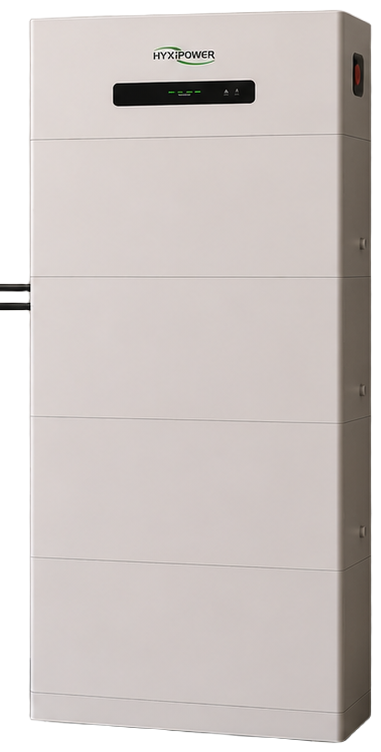
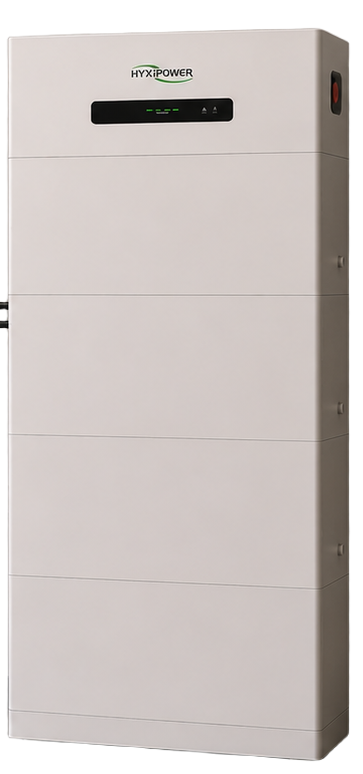
Improve visual appearance and layout of key pages
Update battery image cropping, adjust component layouts, and refine visual elements across HomePage, AanbodPage, OverOnsPage, and WaaromSolarFastPage.

Replit-Commit-Author: Agent
Replit-Commit-Session-Id: 162b359c-b21b-409e-af4e-9883205b7a35
Replit-Commit-Checkpoint-Type: full_checkpoint
Replit-Commit-Event-Id: c0a02d73-2659-4c11-98e0-e0179d22f946
Replit-Commit-Screenshot-Url: https://storage.googleapis.com/screenshot-production-us-central1/2403479a-2bf0-43aa-9f46-4086eb22509c/162b359c-b21b-409e-af4e-9883205b7a35/OcVRzWx
Replit-Helium-Checkpoint-Created: true

diff --git a/VOLTRAX/frontend/src/pages/WaaromSolarFastPage.jsx b/VOLTRAX/frontend/src/pages/WaaromSolarFastPage.jsx
@@ -203,34 +203,50 @@ export default function WaaromSolarFastPage() {
           <div className="absolute bottom-0 left-0 w-96 h-96 rounded-full bg-[#22a55d]/4" />
         </div>
         <div className="max-w-6xl mx-auto px-6 pt-14 pb-0 relative">
-          <div className="max-w-3xl pb-16">
-            <motion.div initial={{ opacity: 0, y: 16 }} animate={{ opacity: 1, y: 0 }} transition={{ duration: 0.5 }}
-              className="inline-flex items-center gap-2 bg-[#22a55d]/15 text-[#22a55d] text-xs font-semibold px-4 py-2 rounded-full mb-8">
-              <Battery className="w-3.5 h-3.5" />
-              {nl ? 'HYXiPower partner Nederland' : 'HYXiPower partner Netherlands'}
-            </motion.div>
-            <motion.h1 initial={{ opacity: 0, y: 24 }} animate={{ opacity: 1, y: 0 }} transition={{ duration: 0.7, delay: 0.08 }}
-              className="text-5xl lg:text-6xl font-extrabold leading-[1.06] tracking-tight mb-6 text-[#131A20]">
-              {nl
-                ? <> Waarom kiezen voor <span className="text-[#22a55d]">SolarFast</span>? </>
-                : <> Why choose <span className="text-[#22a55d]">SolarFast</span>? </>}
-            </motion.h1>
-            <motion.p initial={{ opacity: 0, y: 16 }} animate={{ opacity: 1, y: 0 }} transition={{ duration: 0.65, delay: 0.16 }}
-              className="text-lg text-[#131A20]/60 leading-relaxed mb-10 max-w-2xl">
-              {nl
-                ? 'SolarFast helpt u een duurzamere woning te realiseren. Als HYXiPower partner begeleiden wij u van energieadvies tot installatie, financiering en jarenlange service. Goed voor uw portemonnee en goed voor het milieu.'
-                : 'SolarFast helps you create a more sustainable home. As a HYXiPower partner we guide you from energy advice to installation, financing and years of service. Good for your wallet and for the environment.'}
-            </motion.p>
-            <motion.div initial={{ opacity: 0, y: 12 }} animate={{ opacity: 1, y: 0 }} transition={{ duration: 0.65, delay: 0.24 }}
-              className="flex flex-wrap gap-3">
-              <button onClick={() => navigate('/calculator')}
-                className="flex items-center gap-2 bg-[#22a55d] hover:bg-[#1a9050] text-white font-semibold px-7 py-3.5 rounded-full transition-all hover:shadow-xl hover:shadow-green-500/25 text-sm">
-                {nl ? 'Bereken mijn besparing' : 'Calculate my savings'} <ArrowRight className="w-4 h-4" />
-              </button>
-              <a href="mailto:info@solarfast.nl?subject=Advies"
-                className="flex items-center gap-2 border border-[#22a55d]/30 text-[#131A20]/70 hover:border-[#22a55d] hover:text-[#22a55d] font-medium px-7 py-3.5 rounded-full transition-all text-sm bg-white">
-                {nl ? 'Stel een vraag' : 'Ask a question'}
-              </a>
+          <div className="grid lg:grid-cols-2 gap-14 items-start pb-16">
+            <div>
+              <motion.div initial={{ opacity: 0, y: 16 }} animate={{ opacity: 1, y: 0 }} transition={{ duration: 0.5 }}
+                className="inline-flex items-center gap-2 bg-[#22a55d]/15 text-[#22a55d] text-xs font-semibold px-4 py-2 rounded-full mb-8">
+                <Battery className="w-3.5 h-3.5" />
+                {nl ? 'HYXiPower partner Nederland' : 'HYXiPower partner Netherlands'}
+              </motion.div>
+              <motion.h1 initial={{ opacity: 0, y: 24 }} animate={{ opacity: 1, y: 0 }} transition={{ duration: 0.7, delay: 0.08 }}
+                className="text-5xl lg:text-6xl font-extrabold leading-[1.06] tracking-tight mb-6 text-[#131A20]">
+                {nl
+                  ? <> Waarom kiezen voor <span className="text-[#22a55d]">SolarFast</span>? </>
+                  : <> Why choose <span className="text-[#22a55d]">SolarFast</span>? </>}
+              </motion.h1>
+              <motion.p initial={{ opacity: 0, y: 16 }} animate={{ opacity: 1, y: 0 }} transition={{ duration: 0.65, delay: 0.16 }}
+                className="text-lg text-[#131A20]/60 leading-relaxed mb-10 max-w-xl">
+                {nl
+                  ? 'SolarFast helpt u een duurzamere woning te realiseren. Als HYXiPower partner begeleiden wij u van energieadvies tot installatie, financiering en jarenlange service. Goed voor uw portemonnee en goed voor het milieu.'
+                  : 'SolarFast helps you create a more sustainable home. As a HYXiPower partner we guide you from energy advice to installation, financing and years of service. Good for your wallet and for the environment.'}
+              </motion.p>
+              <motion.div initial={{ opacity: 0, y: 12 }} animate={{ opacity: 1, y: 0 }} transition={{ duration: 0.65, delay: 0.24 }}
+                className="flex flex-wrap gap-3">
+                <button onClick={() => navigate('/calculator')}
+                  className="flex items-center gap-2 bg-[#22a55d] hover:bg-[#1a9050] text-white font-semibold px-7 py-3.5 rounded-full transition-all hover:shadow-xl hover:shadow-green-500/25 text-sm">
+                  {nl ? 'Bereken mijn besparing' : 'Calculate my savings'} <ArrowRight className="w-4 h-4" />
+                </button>
+                <a href="mailto:info@solarfast.nl?subject=Advies"
+                  className="flex items-center gap-2 border border-[#22a55d]/30 text-[#131A20]/70 hover:border-[#22a55d] hover:text-[#22a55d] font-medium px-7 py-3.5 rounded-full transition-all text-sm bg-white">
+                  {nl ? 'Stel een vraag' : 'Ask a question'}
+                </a>
+              </motion.div>
+            </div>
+            <motion.div
+              initial={{ opacity: 0, scale: 0.95, x: 20 }} animate={{ opacity: 1, scale: 1, x: 0 }}
+              transition={{ duration: 0.85, delay: 0.12, ease: [0.22, 1, 0.36, 1] }}
+              className="relative flex items-center justify-center py-4"
+            >
+              <div className="absolute w-[65%] aspect-square rounded-full bg-[#22a55d]/14 blur-3xl" />
+              <div className="absolute w-[40%] aspect-square rounded-full bg-[#22a55d]/10 blur-xl" />
+              <img
+                src="/assets/hyxipower-battery-3d.png"
+                alt="HYXiPower All-in-One thuisbatterij"
+                className="relative w-[75%] max-w-[300px] mx-auto"
+                style={{ filter: 'drop-shadow(0 32px 48px rgba(0,0,0,0.18)) drop-shadow(0 8px 16px rgba(34,165,93,0.12))' }}
+              />
             </motion.div>
           </div>
         </div>

diff --git a/VOLTRAX/frontend/src/pages/HomePage.jsx b/VOLTRAX/frontend/src/pages/HomePage.jsx
@@ -141,18 +141,21 @@ export default function HomePage() {
               initial={{ opacity: 0, scale: 0.96, x: 24 }}
               animate={{ opacity: 1, scale: 1, x: 0 }}
               transition={{ duration: 0.85, delay: 0.12, ease: [0.22, 1, 0.36, 1] }}
-              className="relative flex items-center justify-center py-6 overflow-hidden"
+              className="relative flex items-center justify-center py-4"
             >
-              <div className="absolute w-[70%] aspect-square rounded-full bg-[#22a55d]/8 blur-2xl" />
+              {/* Glow ring */}
+              <div className="absolute w-[65%] aspect-square rounded-full bg-[#22a55d]/14 blur-3xl" />
+              <div className="absolute w-[40%] aspect-square rounded-full bg-[#22a55d]/10 blur-xl" />
               <img
                 src="/assets/hyxipower-battery-3d.png"
                 alt="HYXiPower All-in-One thuisbatterij"
-                className="relative w-[62%] sm:w-[55%] max-w-xs mx-auto drop-shadow-2xl"
+                className="relative w-[75%] max-w-[320px] mx-auto"
+                style={{ filter: 'drop-shadow(0 32px 48px rgba(0,0,0,0.18)) drop-shadow(0 8px 16px rgba(34,165,93,0.12))' }}
               />
               <motion.div
                 initial={{ opacity: 0, y: 14 }} animate={{ opacity: 1, y: 0 }}
                 transition={{ delay: 0.55, duration: 0.55 }}
-                className="absolute bottom-2 left-2 sm:bottom-4 sm:left-4 bg-white rounded-2xl shadow-xl shadow-black/8 px-5 py-4 flex items-center gap-3 border border-white"
+                className="absolute bottom-4 left-4 bg-white rounded-2xl shadow-xl shadow-black/10 px-5 py-4 flex items-center gap-3 border border-gray-100"
               >
                 <div className="w-10 h-10 rounded-xl bg-[#22a55d]/10 flex items-center justify-center">
                   <Battery className="w-5 h-5 text-[#22a55d]" />

diff --git a/VOLTRAX/frontend/src/pages/AanbodPage.jsx b/VOLTRAX/frontend/src/pages/AanbodPage.jsx
@@ -265,9 +265,28 @@ export default function AanbodPage() {
               : 'From starter to maximum independence: every system includes battery, inverter, installation and factory warranty. Everything included, nothing extra.'}
           </motion.p>
           <motion.div initial={{ opacity: 0 }} animate={{ opacity: 1 }} transition={{ duration: 0.6, delay: 0.35 }}
-            className="inline-flex items-center gap-2 bg-white border border-green-200 text-green-700 text-xs font-semibold px-4 py-2 rounded-full">
+            className="inline-flex items-center gap-2 bg-white border border-green-200 text-green-700 text-xs font-semibold px-4 py-2 rounded-full mb-10">
             <CheckCircle2 className="w-3.5 h-3.5" />
             {nl ? 'LFP-celtechnologie voor lange levensduur' : 'LFP cell technology for long lifespan'}
+          </motion.div>
+
+          {/* Product visual */}
+          <motion.div
+            initial={{ opacity: 0, y: 24 }} animate={{ opacity: 1, y: 0 }}
+            transition={{ duration: 0.9, delay: 0.4, ease: [0.22, 1, 0.36, 1] }}
+            className="relative flex items-center justify-center"
+          >
+            <div className="absolute w-[40%] aspect-square rounded-full bg-[#22a55d]/12 blur-3xl" />
+            <img
+              src="/assets/hyxipower-battery-3d.png"
+              alt="HYXiPower All-in-One thuisbatterij"
+              className="relative mx-auto"
+              style={{
+                height: 260,
+                width: 'auto',
+                filter: 'drop-shadow(0 24px 40px rgba(0,0,0,0.16)) drop-shadow(0 6px 12px rgba(34,165,93,0.1))',
+              }}
+            />
           </motion.div>
         </div>
       </section>

diff --git a/VOLTRAX/frontend/src/pages/OverOnsPage.jsx b/VOLTRAX/frontend/src/pages/OverOnsPage.jsx
@@ -98,9 +98,9 @@ export default function OverOnsPage() {
       <Nav />
 
       {/* Hero */}
-      <section className="pt-32 pb-16 bg-[#F9F7F4]">
+      <section className="pt-28 pb-16 bg-[#F9F7F4]">
         <div className="max-w-6xl mx-auto px-6">
-          <div className="grid lg:grid-cols-2 gap-12 items-center">
+          <div className="grid lg:grid-cols-2 gap-12 items-start">
             <div className="text-center lg:text-left">
               <motion.div
                 initial={{ opacity: 0, y: 16 }} animate={{ opacity: 1, y: 0 }}
